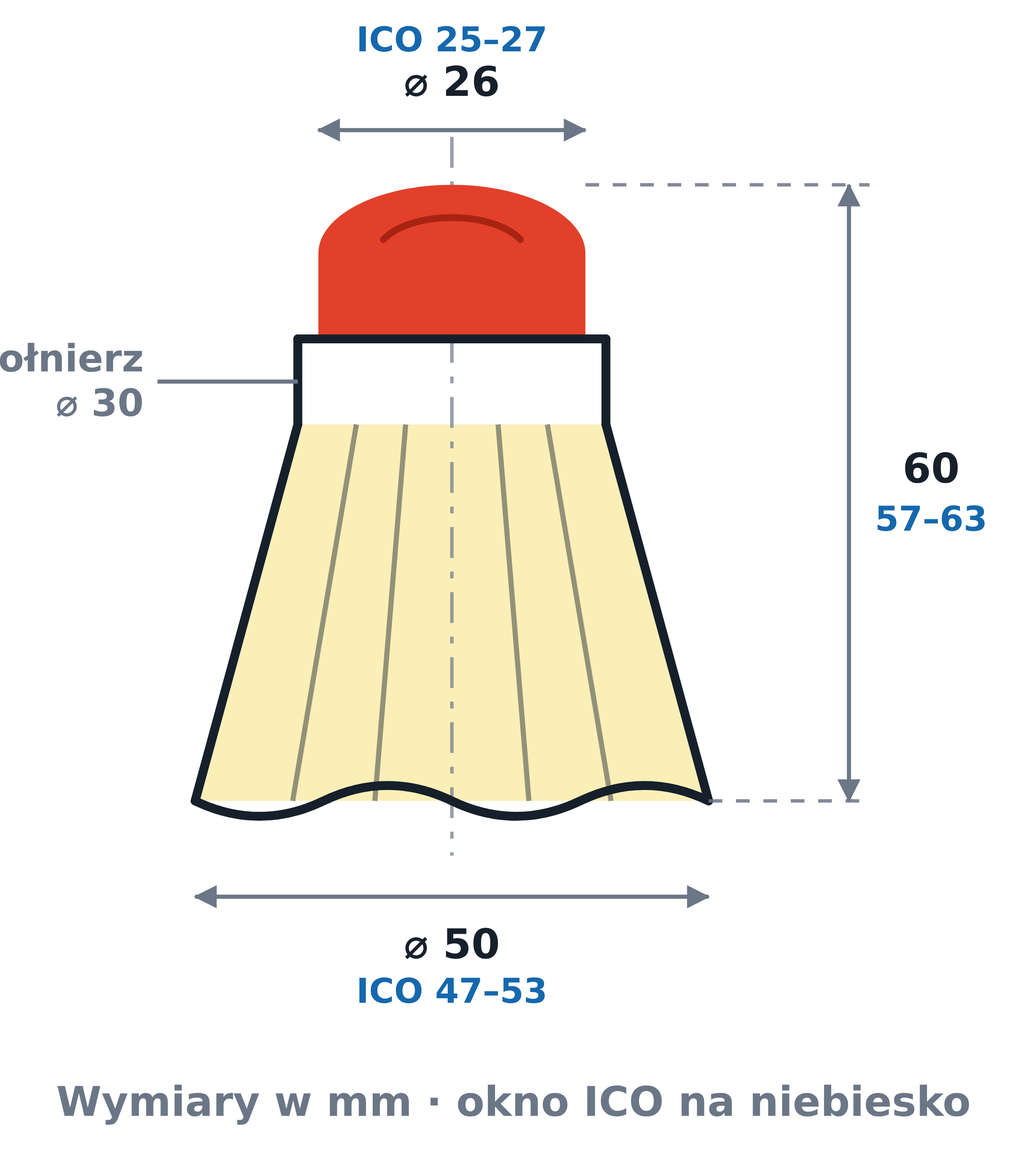
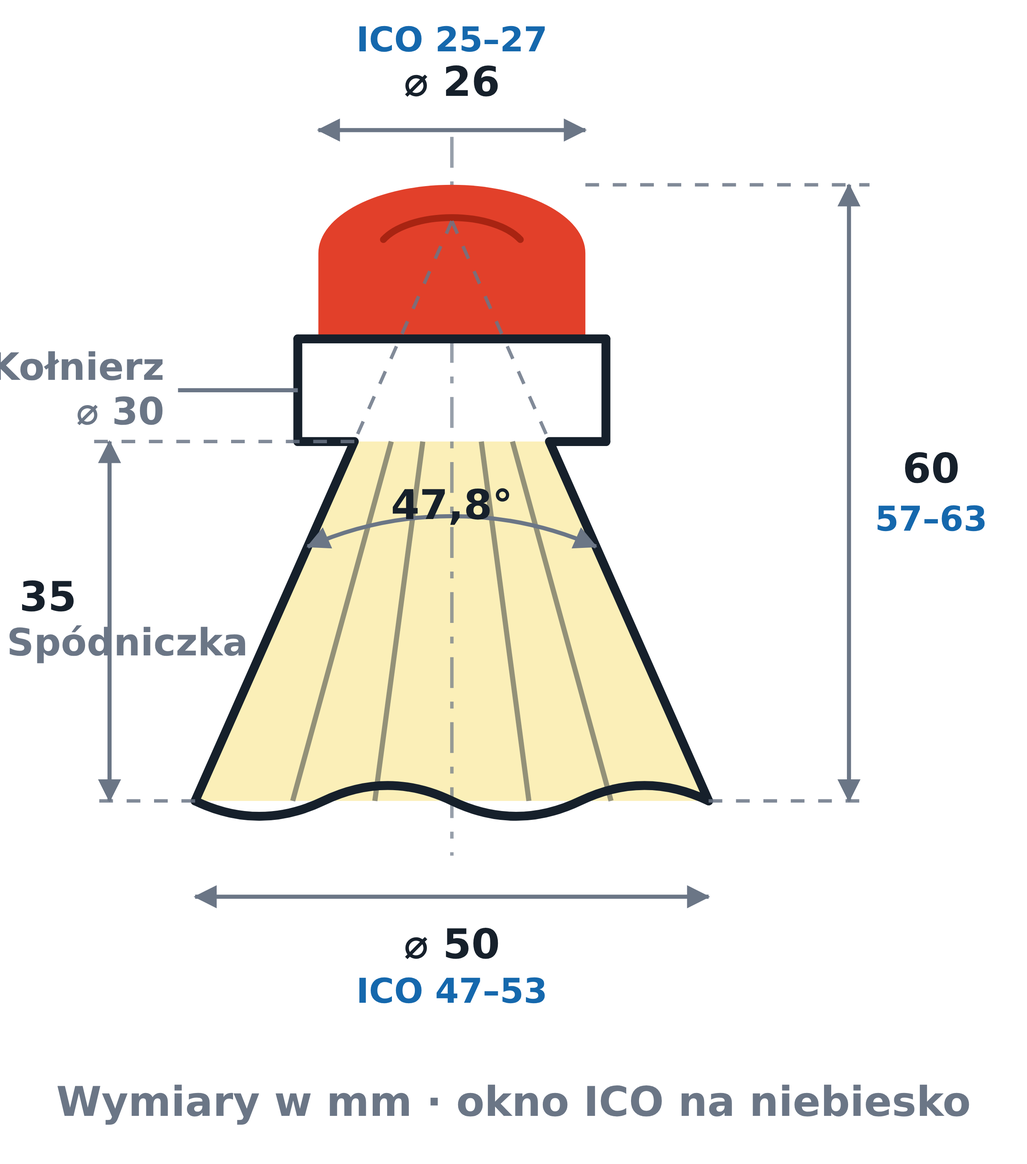
Konuswinkel 47,8 Grad bemassen — Bezug ist der Endring, nicht der Kragen
Beim ersten Anlauf hatte ich den Winkel weggelassen, weil er zu den
uebrigen Massen nicht zu passen schien. Der Grund war ein Messfehler von
mir: ich hatte die Kegelflanke am Kragen ⌀30 angesetzt und kam auf
31,9 Grad. Der Konus beginnt aber am ENDRING ⌀19 — dort klemmen die
Laengsstiele. Ueber die Korblaenge 35 mm ergibt ⌀19 auf ⌀50 exakt
2*atan(15,5/35) = 47,8 Grad. Die Vorlage ist also in sich stimmig.

Die Geometrie haelt den Wert jetzt EIN, statt ihn bloss anzuschreiben:
Kappe 15 mm (⌀26), Kragen 10 mm (⌀30), dann setzen die Stiele am Endring
an und der Konus laeuft ueber 35 mm auf ⌀50 — Summe 60 mm.

Bemasst wird ueber den rechnerischen Konus-SCHEITEL (Y_SCHEITEL): der
Bogen liegt auf beiden Flanken auf (nachgerechnet: Bogenendpunkt r=42,1
gleich Flankenradius r=42,1 auf derselben Hoehe), ist also nachrechenbar
statt dekorativ — so gehoert ein Kegelwinkel bemasst. Dazu neu die
Korblaenge 35 als Mass links.

Nebenbei: das "Korb"-Label stand in ICO-Blau, obwohl es kein ICO-Wert
ist — jetzt neutral grau. Und "47,8°" musste ausdruecklich in die
Uebersetzungskarte, weil der Zahlen-Filter es sonst als sprachneutral
durchgewunken haette; im Englischen steht dort ein Punkt (47.8°).

Katalog-Kopfzahlen in images/grafik-prompts.md mitgezogen: sie standen
noch auf 61 Grafiken und "Test bei 55/59", beides laenger veraltet.

CACHE-Bump v54 auf v55. 451 Pruefungen gruen, i18n-check, sitemap,
validate.py. An der laufenden App: Beschriftung kippt in allen vier
[…]

Changed region(s): [[0.0, 0.2791, 0.6875, 0.6823]]

diff --git a/sw.js b/sw.js
@@ -20,7 +20,7 @@
 // Kern-Dateien den CACHE-Namen erhöhen — dann lädt der neue SW die Hülle frisch
 // und räumt die alten Caches weg.
 
-const CACHE = 'crossminton-v54';
+const CACHE = 'crossminton-v55';
 
 // App-Hülle: alles, was für den ersten Start ohne Netz nötig ist. Die
 // Baustein-Grafiken (images/G-XXX.png) sind bewusst NICHT dabei — sie sind viele

diff --git a/CLAUDE.md b/CLAUDE.md
@@ -85,7 +85,7 @@ Farben, Typografie und Icon-Regeln stehen in `docs/ci.md` und sind als CSS-Varia
 - **App-Info (Reiter „Über"/„Mitmachen", Rechtstexte, Footer + Sprachanzeige) ist eine eigene Entität, kein Lerninhalt.** `data/app-info.json` (wie `regeln`/`trainingseinheiten` **nie im Baustein-Pool**: kein Fortschritt, keine Gamification) → `daten.appInfo = { meta, ueber, mitmachen, rechtliches, sprachen }`; gerendert von `js/ansichten/info.js` unter `#/ueber` und `#/mitmachen` (im „Mehr"/Hamburger-Menü, **nicht** in der Bottom-Bar) sowie `#/impressum`/`#/datenschutz` (`renderRechtstext`, erreichbar über das „Mehr"-Menü). **Navigation:** Die mobile Bottom-Bar ist **4-teilig/einzeilig** — Lernen · Trainieren · Profil · **Mehr** (`.fussnav-mehr`/`#mehr-knopf`, Label `nav_mehr`); „Mehr" öffnet dieselbe `#hauptmenue`-Lade wie der Kopf-Hamburger (ab Tablet, Bar dann verborgen), `oeffneMenue`/`setzeMenueTrigger` teilen den aria-Zustand beider Auslöser. Das Menü ordnet: die Ziel-Reihen **Lernen · Kompetenzpfad · Trainieren · Regeln · Ausrüstung · Merkliste · KO-Turnier** (`.menue-punkt`, Icons `fa-book-open`/`fa-table-tennis-paddle-ball`/`fa-scale-balanced`/`fa-toolbox`), dann `.menue-trenner`, dann die **Knopfleiste** (`.menue-knopfleiste`) mit drei kompakten Knöpfen **Profil · Suche · Darstellung** (`.menue-knopf`): Profil/Suche sind navigierende `<a>` (schließen das Menü), Darstellung ist ein `<button data-thema-zyklus>`, der **auto → hell → dunkel** durchschaltet — `aktualisiereThemaMenue()` beschriftet ihn bei jedem Rendern mit dem aktuellen Modus (`[data-thema-label]`), `boot()` verdrahtet den Zyklus über `wendeThemaAn`+`setzeEinstellung` und schließt das Menü bewusst **nicht** (Wirkung bleibt vergleichbar sichtbar; `fa-moon` (U+F186) ist im Font vorhanden, aber nicht in `css/schriften.css` deklariert — darum konstantes `fa-sun` + Modus-Label). Dann `.menue-trenner`, **Über · Mitmachen**, dann Impressum/Datenschutz als **kleine Links** (`.menue-mini` in `.menue-rechtliches`, ohne Icon) — der `[data-footer]`-Beschrifter ersetzt den `.nav-text`-Träger, sonst den ganzen Textknoten. `aktualisiereNavigation` setzt „Mehr" aktiv, sobald die Route im Menü liegt (regeln/turnier/ausruestung/suche/ueber/mitmachen/impressum/datenschutz). **Die Menü-Lade MUSS scrollen können** (`.menue-lade`: `overflow-y: auto` + `overscroll-behavior: contain` + `flex-shrink: 0` auf den Kindern): ihr Inhalt ist ~819 px hoch und damit höher als kurze Viewports (iPhone SE 667, kleines Android 640, Querformat noch deutlicher). Vorher stand dort `overflow-y: visible` bei `height: 100%` — der Überlauf war schlicht **unerreichbar**, es fehlten „Über", „Mitmachen" und die beiden Rechtstext-Links (im Querformat zehn Einträge). `flex-shrink: 0` ist nötig, weil die Flex-Spalte die Einträge sonst erst staucht, statt den Container scrollen zu lassen. Wer dem Menü einen Eintrag hinzufügt, prüft das auf 360×640 nach — der Fehler ist auf Desktop-Breiten unsichtbar. **Impressum/Datenschutz stehen zusätzlich am Fuß des „Über"-Reiters** (`rechtlicheLinksHtml()` in `js/ansichten/info.js`, `.info-rechtliches`, schlichtes `<p>` statt `<nav>` — zwei Links brauchen kein Landmark, und ein `aria-label` wäre ein unsichtbarer fünfter Übersetzungsschlüssel): sie lagen zuvor NUR im Menü, und dort genau an der Stelle, die abschnitt. **Ausrüstung ist ein eigenes Top-Level-Ziel** (`#/ausruestung`, `renderAusruestung` in `js/ansichten/pfad.js`): dieselbe fachliche `ausruestung`-Domäne wie im Themenpfad, aber als eigene Seite mit `heroKlein`-Kopf + Kurzeinstieg (`ausruestung_untertitel`/`ausruestung_intro`) über `themenpfad(daten,'ausruestung')`; Kontext `ausruestung` führt aus den Bausteinen dorthin zurück (`kontextZuListe`). Die Domäne bleibt zusätzlich Themen-Facette (zwei Perspektiven auf dieselben 7 Bausteine). **Wohin das Onboarding führt:** `schliesseAb()` in `js/ansichten/onboarding.js` navigiert am Ende **nicht** auf die Startseite (dort spiegelt nichts die eben gemachten Angaben), sondern zum Ergebnis: **mit benanntem Ziel → `#/pfad/individual`, ohne Ziel → `#/pfad/kompetenz`** (Spez. 7.1 nennt den Kompetenzpfad ausdrücklich als Default bei ausgelassenem Ziel). Das setzt **keine** Pfadbindung — Spez. 7.4 hält Zieläußerung und Pfadwahl entkoppelt, das Ziel bleibt überall gespeichert und wirksam; gezeigt wird nur, was daraus folgt. **Kein erzwungenes Onboarding:** Der Erstbesuch landet direkt auf der vollen Startseite (`renderHeim` mit allen Kacheln), nicht auf einer Abfrage — die frühere Willkommensseite (`willkommen.js`) ist entfernt, ihr Zweck (Wizard vs. freies Handbuch) deckt jetzt der Marken-Hero der Startseite mit CTA „Kapitel entdecken" + „Onboarding" ab. Der Wizard bleibt optional über diese CTA (`#/onboarding`) und das Profil erreichbar; `rendern()` kennt keinen Erstlauf-Sonderfall mehr. Nur die Onboarding-Ansicht selbst blendet die Bottom-Nav aus (`body.im-onboarding` nur bei `segmente[0]==='onboarding'`); überall sonst — auch beim Erstbesuch — bleibt die normale Navigation samt Kopf-Icons (Hamburger, Sprachanzeige) sichtbar. **[Eckige-Klammer-Platzhalter bleiben sichtbar** (Name/Anschrift/E-Mail) — `externerLink()` verlinkt sie nie (inaktiver Knopf + Monospace-Text); ein echter `http`-Absprung wird zum Link. `pruefeDaten` warnt nur leicht, nie über Platzhalter. Inhalt bleibt **inline** (`{de:…}` via `text()`), nur die UI-Labels (`nav_ueber`, `nav_mitmachen`, `footer_impressum`, `footer_datenschutz`) liegen in `labels/de.json`. **Kein App-Footer** (entfernt): Impressum/Datenschutz laufen ausschließlich über das „Mehr"-Menü; das GitHub-Logo (inline-SVG) sitzt jetzt im „Über"-Reiter unter Lizenz/Credits (`credits_lizenz.github`, gerendert in `info.js`). Die **Sprachwahl im Kopf** (`initSprachanzeige`/`setzeSprachanzeige`, rechts neben dem Hamburger) **schaltet funktional um** (`sprachen.funktion_aktiv: true`): der Kopf zeigt konstant eine **Weltkugel** (🌐), das Untermenü listet **de/en/fr/pl** (kein `ja`) als **`<button data-sprach-code>`** mit **Flagge + Eigenname** (Sprachname in der jeweiligen Heimatsprache: Deutsch/English/Français/Polski, Feld `eigenname`) und markiert die aktive mit **Häkchen (✓) + Hervorhebung**. Ein Klick ruft `setzeSprache(code)` (lädt die Labels der Sprache) + `setzeEinstellung('sprache', code)` und rendert global neu (`rendern()` → `beschrifteRahmen` beschriftet Navigation/Menü/Kopf mit) — **parallel zum Profil-Selektor**, der als zweiter Weg bleibt. fr/pl fallen über die i18n-Kette weiter auf de zurück. **Der Menüpunkt „Lernen" verlinkt auf den Themenpfad** (`#/pfad/themen`, Bottom-Bar wie Drawer) statt auf die Startseite; die Startseite (`renderHeim`) bleibt über das Marken-Logo (`.marke`, `#/`) erreichbar. **`credits_lizenz` ist strukturiert (nicht mehr `eintraege[]`):** `lizenzen[]` ({`rolle`,`name`,`ziel`} — Lizenzname ausgeschrieben + extern verlinkt) + `credits.personen[]` ({`name`,`ziel`} — Namen extern verlinkt, z. B. Damian Paderta→paderta.com, nozilla→nozilla.de) + `github`; gerendert vom eigenen `creditsLizenzHtml()` in `info.js` (Personennamen sind Eigennamen ohne `{de,en,fr}`, die `rolle`/`name`/`praefix` tragen Zwillinge). Technische Gesamtübersicht: `ENTWICKLUNG.md`.
 - **Grafiken sind durchnummeriert (`G-XXX`) und liegen als theme-fähiges Inline-SVG in `images/` (je mit PNG-Render-Fallback).** Das optionale Baustein-Feld `grafik` ist eine **Liste** von `G-XXX`-Nummern (Sequenzen tragen mehrere, z. B. `aufschlag` → `["G-005","G-006"]`); `grafikenHtml` in `js/ansichten/baustein.js` rendert über `grafikFigurHtml` ein `<img src="images/G-XXX.png">`, das nach dem Rendern gegen das Inline-SVG getauscht wird (CSS `.grafik-bild`). Die sichtbare Beschriftung steht als Label unter `grafiken` in `labels/de.json`, **nach `G-XXX` gekeyed** (nicht mehr `*_leitgrafik`/`*_seq_n` — die alten Namen wurden koordiniert umnummeriert, auch in `bausteine.beginner-technik.json`). Nummernkreis nach Reitern: Technik `G-001–022`, Taktik `G-023–031`, Athletik `G-032–036`, Doppel `G-037–053`, Outdoor `G-054–059`, Regeln `G-060–061`, Spielformen `G-062–063`, Ausrüstung `G-064–067`. **59 Bausteine tragen eine Grafik (65 Referenzen); `G-060`/`G-061` hängen an keinem Baustein** — es sind die zwei Referenzgrafiken im Regeln-Reiter (`renderRegeln`, eingeklappte `<details>`-Sektion `regeln_grafiken`). Deltas tragen nie eine eigene Grafik. Der vollständige Katalog **und das Abdeckungs-Audit** (bewusst bildlos: Mentales, abstrakte Taktik, konditionelle Athletik, Trainer, Spielmodi) stehen in `images/grafik-prompts.md`. **Nie umbenennen.** Der Test `[10] Grafiksystem` prüft Schema, Datei-Existenz, Sequenzen und die G-060/061-Ausnahme.
 - **ALLE 67 Grafiken sind hand-gezeichnetes, theme-fähiges Inline-SVG — es gibt keine Raster-Illustrationen mehr.** Ursprünglich war eine Trennlinie vorgesehen (Diagramme als SVG, Körper/Griff/Szene als KI-PNG); umgesetzt ist **durchgängig SVG**, auch die Figur-/Griff-/Szene-Motive als **abstrakte Piktogramme** (Rundkappen-Strichfiguren `stroke-width ~14`, Kopf gefüllt, Schläger/Pfeile in `--primaer`, kurze `.st`-Caption; Nahaufnahmen wie Griff/Handgelenk/Schnitt als schematische Elemente). Nutzt die CI-Tokens `var(--tinte)`/`var(--primaer)`/`var(--tinte-3)` mit Hell-Fallback, kippt daher **mit dem `data-theme`-Umschalter** — kein `@media` nötig; grotesk-frei (keine KI-Anatomie), buildfrei, in Hell/Dunkel automatisch lesbar. **Beide Dateien existieren stets** (`G-XXX.svg` UND `G-XXX.png`): `SVG_GRAFIKEN` (Set in `js/oberflaeche.js`) listet **alle 67**; `grafikFigurHtml(id)` rendert das PNG als sofort sichtbaren Fallback und hängt `data-grafik-svg` an; `verbessereGrafiken(wurzel)` (nach dem Rendern in `renderBaustein` **und** `renderRegeln`) tauscht das PNG per `fetch` gegen das Inline-SVG (idempotent, gecacht; übernimmt den übersetzten `alt` als `aria-label`; scheitert der Abruf offline, bleibt das PNG). Die SVGs sind **nicht in der SW-SHELL** (lazy, SWR-gecacht). PNG-Render: `var()`-Fallbacks = Hell-Werte (Playwright, transparent, 2×, `omitBackground`). Werkzeuge in `scratchpad/`: `render-svg.mjs G-XXX` (auch `G-XXX.en`/`G-XXX.fr`/`G-XXX.pl`) rendert PNGs, `montage.mjs [--dark]` kachelt zur Sichtprüfung, `gen-en.mjs`/`gen-fr.mjs`/`gen-pl.mjs` erzeugen die en-/fr-/pl-Zwillinge aus einer Übersetzungsmap. **Caption ≤ ~46 Zeichen** (sonst Überlauf der 300px-viewBox). Neue Grafik: SVG mit Token-`var()` + kurzer `.st`-Caption schreiben, zu `.png` rendern, Nummer in `SVG_GRAFIKEN`, en-/fr-/pl-Zwilling + `.en.png`/`.fr.png`/`.pl.png` ergänzen. **Sprachvarianten (Ring 16, `en`, `fr` und `pl` vollständig für alle 67):** jede Grafik trägt Caption + `aria-label`, darum liegt zu jeder ein `G-XXX.<sprache>.svg`/`.png`-Zwilling (`en`, `fr`, `pl`; gelistet in `GRAFIK_SPRACHEN`; ~194 Textstrings je Sprache — 157 sichtbare `<text>` + 67 aria-label); `grafikFigurHtml` wählt bei aktiver Grafik-Sprache die `.<sprache>`-Dateien, sonst die deutsche Basis (ohne Variante fällt es sauber auf de zurück). Beachte: `verbessereGrafiken` überschreibt zur Laufzeit die SVG-`aria-label` mit dem übersetzten `alt` aus `label('grafik', id)` — die in-SVG-`aria-label` ist also nur für die Rohdatei/EN-Parität, nicht laufzeitrelevant; sichtbar sind die `<text>`. Der Zwilling ändert **nur** `<text>`+`aria-label` (Geometrie/Tokens byte-identisch); bei englischer/französischer Überlänge minimal die Position/Größe im Sprach-SVG nachziehen (nie das de-SVG) — `fr` nutzt dafür in `gen-fr.mjs` einen `TWEAKS`-Block (font-size ↓ bei G-040 `.st` und G-061 `.cap`) plus ein paar gekürzte Captions (G-001, G-039 „sa moitié", G-061 „IN — dedans"); genau diese zwei fr-SVGs weichen daher über `<text>`/`aria` hinaus vom de ab (erlaubte Ausnahme). **`pl` brauchte keinen einzigen TWEAK** — die polnischen Captions bleiben alle unter der ~46-Zeichen-Grenze (nur „Kunstrasen" → „Szt. trawa" gekürzt), also weicht kein pl-SVG über `<text>`/`aria` hinaus vom de ab. Der Test `SVG_GRAFIKEN … .svg UND .png` und `GRAFIK_SPRACHEN … .svg UND .png` prüfen die Paarigkeit (jetzt en + fr + pl). Die en-/fr-/pl-Dateien sind **nicht in der SHELL** (lazy), aber bei Änderung an `grafikFigurHtml`/`oberflaeche.js` den `CACHE` bumpen (hier v29 → v30 wegen `GRAFIK_SPRACHEN` += `pl`).
-- **Die Ausrüstungs-Domäne ist über die Speeder-Konstruktionszeichnung bebildert (`G-064`–`G-067`) — und sie ist die eine erlaubte Ausnahme von der Ampel-Farbregel.** Vorher war die gesamte Domäne über alle sieben Bausteine bildlos. Vorlage war eine vierteilige Konstruktionszeichnung (A perspektivisch, B Profil, C Längsschnitt, D Draufsicht); sie ist **bewusst als VIER eigenständige Grafiken** umgesetzt und nicht als eine 2×2-Tafel: die Vorlage ordnet zweispaltig an, was auf dem Telefon unlesbar wird, während vier Figuren von der App ohnehin einspaltig gestapelt werden (`.grafik-platzhalter` ist `width:100%`) — responsiv ohne CSS-Ausnahme, und jede Tafel trägt eigene Beschriftung und Sprachvarianten. Verteilt auf die zwei Orte, die inhaltlich gemeint sind: `deine_ausruestung` → `G-064` (unbemaßte Übersicht), `der_speeder` → `G-065`/`G-066`/`G-067`. **Farben sind die Originalfarben des Typs MATCH** (gelber Korb, rote Schlagkappe) über **eigene Tokens** `--speeder-korb`/`--speeder-kappe`/`--speeder-kappe-tief` in `css/app.css` (hell + beide Dunkel-Blöcke), ausdrücklich **nicht** über `--signal-gelb`/`--signal-rot`: die Ampel bedeutet hier einen *Zustand* (offen/Hinweis/erledigt), am Speeder ist die Farbe eine *Sacheigenschaft* — beides auf denselben Token zu legen hieße die Ampel zu verwässern. Wer weitere Produktfarben braucht, legt ebenso eigene Tokens an, statt die Signalfarben zu entleihen. **Maßstab 3 Einheiten je mm**, Schlagkappe oben wie in Tafel B. **Der Konuswinkel ist bewusst NICHT bemaßt:** mit den 47,8° der Vorlage wäre der Korb erst nach 22,6 mm auf ⌀50 und die Silhouette sähe nicht mehr nach Speeder aus (die gezeichnete Form trägt rund 31°) — die Vorlage nennt ihre Werte selbst als Näherung („am Realobjekt zu vermessen"), darum lieber die Zahl weglassen als sie an eine Geometrie schreiben, die sie nicht einhält. `G-066` ist als einzige **360 breit** (die linke Beschriftungsspalte passt bei 300 nicht) — das Repo kennt Nicht-300-Breiten bereits. Erzeugt von `scratchpad/gen-speeder.mjs` (Geometrie gerechnet, nicht geschätzt) + `gen-speeder-sprachen.mjs` (en/fr/pl; prüft auf VORHANDENSEIN statt auf Veränderung, weil „22,5°" in fr/pl gleich lautet und ein Veränderungs-Test dort falschen Alarm schlüge). Terminologie aus dem Bestand statt erfunden: *head/tête/główka* wie „der Kopf entscheidet" in `regeln.json`, *skirt/jupe/spódniczka* wie im `der_speeder`-Text.
+- **Die Ausrüstungs-Domäne ist über die Speeder-Konstruktionszeichnung bebildert (`G-064`–`G-067`) — und sie ist die eine erlaubte Ausnahme von der Ampel-Farbregel.** Vorher war die gesamte Domäne über alle sieben Bausteine bildlos. Vorlage war eine vierteilige Konstruktionszeichnung (A perspektivisch, B Profil, C Längsschnitt, D Draufsicht); sie ist **bewusst als VIER eigenständige Grafiken** umgesetzt und nicht als eine 2×2-Tafel: die Vorlage ordnet zweispaltig an, was auf dem Telefon unlesbar wird, während vier Figuren von der App ohnehin einspaltig gestapelt werden (`.grafik-platzhalter` ist `width:100%`) — responsiv ohne CSS-Ausnahme, und jede Tafel trägt eigene Beschriftung und Sprachvarianten. Verteilt auf die zwei Orte, die inhaltlich gemeint sind: `deine_ausruestung` → `G-064` (unbemaßte Übersicht), `der_speeder` → `G-065`/`G-066`/`G-067`. **Farben sind die Originalfarben des Typs MATCH** (gelber Korb, rote Schlagkappe) über **eigene Tokens** `--speeder-korb`/`--speeder-kappe`/`--speeder-kappe-tief` in `css/app.css` (hell + beide Dunkel-Blöcke), ausdrücklich **nicht** über `--signal-gelb`/`--signal-rot`: die Ampel bedeutet hier einen *Zustand* (offen/Hinweis/erledigt), am Speeder ist die Farbe eine *Sacheigenschaft* — beides auf denselben Token zu legen hieße die Ampel zu verwässern. Wer weitere Produktfarben braucht, legt ebenso eigene Tokens an, statt die Signalfarben zu entleihen. **Maßstab 3 Einheiten je mm**, Schlagkappe oben wie in Tafel B. **Der Konuswinkel 47,8° bezieht sich auf den ENDRING ⌀19, nicht auf den Kragen ⌀30** — über die Korblänge 35 mm ergibt ⌀19 → ⌀50 exakt `2·atan(15,5/35) = 47,8°`, vom Kragen aus wären es nur 31,9°. Damit ist die Vorlage in sich stimmig; ein erster Anlauf maß an der falschen Kante, hielt sie für widersprüchlich und ließ den Winkel darum weg. Die Geometrie **hält den Wert jetzt ein, statt ihn bloß anzuschreiben**: Kappe 15 mm (⌀26), Kragen 10 mm (⌀30), dann setzen die Längsstiele am Endring an und der Konus läuft über 35 mm auf ⌀50. Bemaßt wird über den rechnerischen **Konus-Scheitel** (`Y_SCHEITEL`) — der Bogen liegt auf beiden Flanken auf, ist also nachrechenbar statt dekorativ, und so gehört ein Kegelwinkel bemaßt. `G-066` ist als einzige **360 breit** (die linke Beschriftungsspalte passt bei 300 nicht) — das Repo kennt Nicht-300-Breiten bereits. Erzeugt von `scratchpad/gen-speeder.mjs` (Geometrie gerechnet, nicht geschätzt) + `gen-speeder-sprachen.mjs` (en/fr/pl; prüft auf VORHANDENSEIN statt auf Veränderung, weil „22,5°" in fr/pl gleich lautet und ein Veränderungs-Test dort falschen Alarm schlüge). Terminologie aus dem Bestand statt erfunden: *head/tête/główka* wie „der Kopf entscheidet" in `regeln.json`, *skirt/jupe/spódniczka* wie im `der_speeder`-Text.
 - **Doku-Reiter: `README.md` (nur Konzept/Angebot) + `docs/TECHNICAL.md` (technische Kurzfassung).** README trägt das Speeder-Logo (`images/logo-speeder.svg`), Badges und die **Lizenz-Trennung Code (MIT) / Inhalt (CC BY-SA 4.0)** mit sichtbaren `[Jahr]`/`[Rechteinhaber]`-Platzhaltern (bewusst nicht gefüllt). Beide sind reine GitHub-Dokumente (README verlinkt TECHNICAL); sie sind **nicht** in der App-Navigation verlinkt (die früher testweise im „Mehr"-Menü eingebundenen `[data-doc]`-Links wurden auf Wunsch wieder entfernt) — **kein In-App-Markdown-Renderer** (buildfrei bleibt Pflicht). `ENTWICKLUNG.md` bleibt die tiefe Entwickler-Referenz; verbindlich ist weiter `docs/uebergabe-spezifikation.md`.
 - **Feedback-Modus lädt den Kommentator on-demand nach — zwei Auslöser, eine Aktivierung.** `js/feedback.js` bindet die **lokal eingecheckte** Fremdbibliothek `vendor/kommentator/{kommentare.js,kommentare.css}` (daimpad/kommentator, MIT, klassisches `window.Kommentare`-Skript — **kein ES-Modul, kein Build**, passt zur „lokal eingecheckte statische Datei"-Regel) **nur** dann ein, wenn `?feedback` in `location.search` steht (`initFeedbackWennGewuenscht()` beiläufig am Ende von `boot()`, teilbarer Link `.../crossminton-handbook/?feedback`) **oder** der Knopf unter **„Mitmachen"** geklickt wird (`aktiviereFeedback()`, ohne Reload; `renderMitmachen` in `js/ansichten/info.js` zeigt Karte mit Erklärtext + Knopf, nach Aktivierung `feedbackAktiv()`→Hinweis; Inhalt in `app-info.json` unter `mitmachen.feedback`). `aktiviereFeedback()` ist idempotent; normale Besucher laden **nichts** (kein Extra-UI/keine Extra-Bytes). Init auf **`#ansicht`** (Lern-Inhalte; Kopf/Nav außen vor), `toolbarMode`+`notes: 'floating'` (baut das Layout **nicht** um; Tool-UI hängt an `document.body`, übersteht das #ansicht-Neurendern der SPA — Kommentare sammeln sich sitzungsweit, Export bleibt vollständig), `themeToggle: false`. **Thema-Kopplung ohne Konflikt:** der Kommentator scoped sein Thema über **eigene Klassen** (`kommentare-dark`/`-light`), **nie** über `<html data-theme>`; `feedback.js` mappt App→Kommentator (hell→light, dunkel→dark, auto→auto) und führt es über das **`app:thema`-Event** (aus `wendeThemaAn`) nach. **CI-Angleichung:** `css/feedback.css` (nur im Feedback-Modus geladen, **nach** der Vendor-CSS) überschreibt die `--k-*`-Variablen des Kommentators auf die App-Tokens (`--primaer`, `--tinte`, `--linie`, Ampel-Gelb für Textmarker, Rubik, Radien) — mit den gleichen Theme-Selektoren wie der Kommentator (inkl. eigener `@media`-dark-Regel für „auto"), damit die App-Tokens gewinnen; die vendored Datei bleibt unangetastet. Rückmeldungen exportiert der Kommentator als JSON oder per E-Mail (`contact@nozilla.de`) — **kein localStorage** (reiner Sitzungsspeicher). **Der vendorte Stand steht in `vendor/kommentator/HERKUNFT.md`** (derzeit `6c6c302`): die Dateien tragen keine Versionsnummer, ohne diese Notiz begänne jede Aktualisierung mit einem Vergleich gegen alle Upstream-Commits. Beim Nachziehen zwei Dinge prüfen, weil das Quell-Repo auch ein WordPress-Plugin enthält, das uns nichts angeht: (a) **neue Vorgaben, die nach außen wirken** — mit `6c6c302` kam ein `webhook` dazu, über den Kommentare an eine zentrale Sammelstelle gehen können; er ist **opt-in** (`if (options.webhook && …)`), `js/feedback.js` übergibt keinen, und der zugehörige „Alle senden"-Knopf erscheint ohne ihn gar nicht — es verlässt also nichts den Browser und die Datenschutzerklärung bleibt richtig; (b) **neues CSS, das `--k-*`-Variablen nutzt, die `css/feedback.css` nicht überschreibt** — die fielen sonst auf die Vendor-Werte zurück und brächen aus der App-CI aus.
 - **Reichweitenmessung läuft über GoatCounter, lokal vendort statt vom Fremd-CDN geladen.** `vendor/goatcounter/count.js` (ISC-lizenziert, unverändert von github.com/arp242/goatcounter übernommen, `vendor/goatcounter/LICENSE`) statt des offiziellen `//gc.zgo.at/count.js` — passend zur „Bibliotheken als lokal eingecheckte statische Datei"-Regel, wie `vendor/kommentator/`. **Anders als der Kommentator lädt es unconditioniert auf jeder Seite**, nicht nur bei Aktivierung: statischer `<script data-goatcounter="https://crossminton-handbook.goatcounter.com/count" data-goatcounter-settings='{"no_onload":true}' async src="vendor/goatcounter/count.js">` in `index.html`. `no_onload`, weil `count.js` sonst nur den initialen Dokument-Load automatisch zählt; für die SPA übernimmt **`js/analytics.js`**s `zaehleAufruf(pfad)` das Zählen, aufgerufen aus `js/app.js`s `rendern()` **nur bei echtem Routenwechsel** (im selben `if (roh !== letzteRoute)`-Block wie `window.scrollTo`/Fokus — kein Doppel- oder Fehlzählen bei bloßem Neu-Zeichnen derselben Route, z. B. nach Sprachwechsel oder Merken-Toggle). Übertragen wird nur `path: window.location.pathname` **ohne Query** (interne Query-Parameter wie `?kontext=` sind Navigations-Rückweg, keine eigene Seite und sollen die Statistik nicht zersplittern); `count.js` selbst ergänzt Referrer/Titel/Bildschirmbreite/Bot-Erkennung serverseitig. Keine Cookies, keine dauerhafte Kennung. **Do-Not-Track wird zusätzlich respektiert**, obwohl `count.js` das selbst nicht prüft — `zaehleAufruf()` bricht bei gesetztem DNT-Header vorzeitig ab. Lädt das Skript (noch) nicht (Boot-Phase, Adblocker, Netzwerkfehler, fehlendes Tag), ist `zaehleAufruf()` unschädlich: eine Warteschlange sammelt bis zum `load`-Ereignis des Script-Tags und verarbeitet dann nach; fehlt das Tag ganz, gilt sofort „bereit" und `sendeZaehlung()` tut beim fehlenden `window.goatcounter` einfach nichts — kein Fehlerfall. **Lokal lässt sich die Zählung nicht direkt beobachten:** `count.js` filtert `localhost`/`127.*`/`192.168.*`/`file:` selbst heraus (eigene `goatcounter.filter()`, Zeile ~116) und schickt dort gar keinen Beacon — wer die Verdrahtung prüfen will, setzt im Testlauf `window.goatcounter = { allow_local: true }` **vor** dem Laden (`addInitScript`; `count.js` beginnt mit `window.goatcounter = window.goatcounter || {}`, ein vorbelegtes Objekt überlebt also) und fängt die ausgehende Bild-Anfrage an `**goatcounter.com/**` ab. Der Endpunkt wird dabei **bei jedem Senden neu aus dem Attribut gelesen** (`get_endpoint()`), nicht beim Laden eingefroren — der Site-Code steckt also ausschließlich im `data-goatcounter`-Attribut in `index.html`. **Datenschutzerklärung entsprechend korrigiert, nicht nur ergänzt** (`data/app-info.json`, `rechtliches.datenschutz`): der bisherige Satz „…kein Tracking…" wäre mit dem neuen Skript schlicht falsch gewesen und wurde durch eine Beschreibung von GoatCounter ersetzt (Rechtsgrundlage Art. 6 Abs. 1 lit. f DSGVO, berechtigtes Interesse, analog zur bestehenden netcup-Logging-Passage; IP-Handling als „nach Angaben des Anbieters" attribuiert, da `goatcounter.com` selbst aus der Entwicklungsumgebung nicht erreichbar war) — in allen vier Sprachen (de/en/fr/pl) nachgezogen. **SW:** `vendor/goatcounter/count.js` + `js/analytics.js` neu in `SHELL` (anders als der Kommentator gehört das Skript in die Hülle, weil es unconditioniert auf jeder Seite lädt, nicht lazy/SWR) **+ CACHE-Bump v35→v36**.

diff --git a/images/grafik-prompts.md b/images/grafik-prompts.md
@@ -8,11 +8,11 @@ Zentrale, durchnummerierte Sammlung aller Bild-Prompts der App. Jede Nummer `G-X
 
 **Integration:** je Baustein ein optionales Feld `grafik: ["G-XXX"]` (Liste, mehrere Bilder je Baustein möglich); der Loader zieht darüber die Bilddatei und zeigt sie in der Baustein-Ansicht. Bausteine ohne Eintrag zeigen kein Bild (siehe Abdeckung).
 
-**Alle 61 Grafiken sind hand-gezeichnetes, theme-fähiges Inline-SVG.** Ursprünglich war eine Trennlinie vorgesehen (Raum/Geometrie als SVG vs. Körper/Textur als KI-PNG); umgesetzt wurde stattdessen **durchgängig SVG** — auch die Figur-/Griff-/Szene-Motive als **abstrakte Piktogramme** (klare Rundkappen-Strichfiguren, CI-Tokens, kurze Caption). Das hält den Stil einheitlich, buildfrei und grotesk-frei (keine unheimliche KI-Anatomie) und ist in Hell/Dunkel automatisch lesbar.
+**Alle 67 Grafiken sind hand-gezeichnetes, theme-fähiges Inline-SVG.** Ursprünglich war eine Trennlinie vorgesehen (Raum/Geometrie als SVG vs. Körper/Textur als KI-PNG); umgesetzt wurde stattdessen **durchgängig SVG** — auch die Figur-/Griff-/Szene-Motive als **abstrakte Piktogramme** (klare Rundkappen-Strichfiguren, CI-Tokens, kurze Caption). Das hält den Stil einheitlich, buildfrei und grotesk-frei (keine unheimliche KI-Anatomie) und ist in Hell/Dunkel automatisch lesbar.
 
-- Jede Nummer liegt als **`G-XXX.svg` UND `G-XXX.png`** (Render-Fallback) vor; alle 61 stehen im `SVG_GRAFIKEN`-Set (`js/oberflaeche.js`). Nutzen die CI-Tokens (`var(--tinte)`/`var(--primaer)`/`var(--tinte-3)` mit Hell-Fallback), kippen mit dem `data-theme`-Umschalter, sind gestochen scharf und winzig.
-- **Texttragend → Sprach-Zwilling:** weil jedes SVG eine kurze deutsche Caption + `aria-label` trägt, liegt zu jeder Nummer ein **`G-XXX.en.svg`/`.en.png`** (nur `<text>`+`aria-label` englisch, Geometrie byte-identisch), geladen über `GRAFIK_SPRACHEN`. fr/pl fallen sauber auf de zurück.
-- **Rezept (buildfrei):** SVG mit Token-`var()` schreiben → `scratchpad/render-svg.mjs G-XXX` rendert das `.png` (2×, transparent, `omitBackground`, Hell-Fallback-Werte) → `scratchpad/gen-en.mjs` erzeugt den en-Zwilling aus der Übersetzungsmap → en-`.png` rendern. `scratchpad/montage.mjs [--dark]` kachelt mehrere zur Sichtprüfung.
+- Jede Nummer liegt als **`G-XXX.svg` UND `G-XXX.png`** (Render-Fallback) vor; alle 67 stehen im `SVG_GRAFIKEN`-Set (`js/oberflaeche.js`). Nutzen die CI-Tokens (`var(--tinte)`/`var(--primaer)`/`var(--tinte-3)` mit Hell-Fallback), kippen mit dem `data-theme`-Umschalter, sind gestochen scharf und winzig.
+- **Texttragend → Sprach-Zwilling:** weil jedes SVG eine kurze deutsche Caption + `aria-label` trägt, liegt zu jeder Nummer ein **`G-XXX.<sprache>.svg`/`.png`** je en/fr/pl (nur `<text>`+`aria-label` übersetzt, Geometrie byte-identisch), geladen über `GRAFIK_SPRACHEN`. Alle drei Sprachen sind vollständig; ohne Variante fiele es sauber auf de zurück.
+- **Rezept (buildfrei):** SVG mit Token-`var()` schreiben → `scratchpad/render-svg.mjs G-XXX` rendert das `.png` (2×, transparent, `omitBackground`, Hell-Fallback-Werte) → `scratchpad/gen-en.mjs` / `gen-fr.mjs` / `gen-pl.mjs` erzeugen die Zwillinge aus der Übersetzungsmap → deren `.png` rendern. `scratchpad/montage.mjs [--dark]` kachelt mehrere zur Sichtprüfung.
 - Die **AI-Prompts unten bleiben als Motiv-/Redaktionsreferenz** stehen (welches Motiv jede Nummer zeigt) — sie sind nicht mehr die Produktionsquelle.
 
 ## Abdeckung (Audit)
@@ -25,7 +25,7 @@ Bewusst **ohne Leitgrafik** bleiben:
 - **Abstrakte Taktik** — `fehler_vermeiden`, `umschalten`, `gegner_lesen_muster`, `doppel_grundlagen`, `engen_satz_fuehren`, `der_matchplan`, `dem_gegner_aufzwingen`, `matchverlauf_steuern`, `entscheidender_punkt`.
 - **Konditionelle Athletik** — `warum_athletik_dein_spiel_traegt`, `richtig_aufwaermen`, `durchhalten`, `erholen`, `gezielt_trainieren`, `rumpfstabilitaet`, `intervallausdauer`, `belastung_steuern_regenerieren`, `form_ueber_die_saison`, `antizipative_schnelligkeit`, `langfristig_belastbar` — Belastungs-/Regenerationsthemen ohne sinnvolles Einzelbild (Gesundheitsrahmen).
 - **Trainer-Trainingsgestaltung** — Meta-Ebene, kein Lernbild.
-- **Spielmodi** (`spielarten_ueberblick`, `snowminton`, `beachminton`, `blackminton`) — vorerst bildlos; die Umgebungs-Varianten sind gute Kandidaten für spätere Atmosphäre-Motive (Schnee/Sand/Nacht, Nummernkreis ab G-062). Der Grafik-Test bleibt bis dahin bei 55/59.
+- **Spielmodi** (`spielarten_ueberblick`, `snowminton`, `beachminton`, `blackminton`) — vorerst bildlos; die Umgebungs-Varianten sind gute Kandidaten für spätere Atmosphäre-Motive (Schnee/Sand/Nacht, Nummernkreis ab G-062). Der Grafik-Test zählt aktuell 59 Bausteine mit Grafik und 65 Referenzen.
 
 Für Metapher-/Schema-Motive der abstrakten Bausteine ist ein eigener, späterer Durchgang vorgesehen.
 
@@ -319,12 +319,13 @@ Sprachvarianten.
 **Maßstab 3 Einheiten je mm**, Schlagkappe oben wie in Tafel B der Vorlage:
 Gesamthöhe 60 mm = 180 u, Korb ⌀50 = r75, Kragen ⌀30 = r45, Schlagkappe ⌀26 = r39.
 
-**Nicht bemaßt ist der Konuswinkel.** Mit den 47,8° der Vorlage wäre der Korb erst nach
-22,6 mm auf ⌀50 und die Silhouette sähe nicht mehr nach Speeder aus; die gezeichnete
-natürliche Form trägt rund 31°. Die Vorlage nennt ihre Werte selbst ausdrücklich als
-Näherung („am Realobjekt zu vermessen"), darum lieber die Zahl weglassen als sie an eine
-Geometrie schreiben, die sie nicht einhält. Bemaßt ist, was zusammenpasst **und**
-ICO-relevant ist: die drei Durchmesser, die Gesamthöhe, der Endring, die Teilung.
+**Der Konuswinkel 47,8° bezieht sich auf den Endring ⌀19, nicht auf den Kragen ⌀30.**
+Über die Korblänge 35 mm ergibt ⌀19 → ⌀50 exakt `2·atan(15,5/35) = 47,8°`; vom Kragen aus
+wären es nur 31,9°. Damit ist die Vorlage in sich stimmig. Die Geometrie hält den Wert
+ein, statt ihn bloß anzuschreiben: Kappe 15 mm (⌀26), Kragen 10 mm (⌀30), dann setzen die
+Längsstiele am Endring ⌀19 an, und der Konus läuft über 35 mm auf ⌀50. Bemaßt wird über
+den rechnerischen **Konus-Scheitel** — der Bogen liegt auf beiden Flanken auf, ist also
+nachrechenbar statt dekorativ.
 
 **Farben sind die Originalfarben des Typs MATCH** (gelber Korb, rote Schlagkappe) und
 laufen über **eigene Tokens** `--speeder-korb` / `--speeder-kappe` / `--speeder-kappe-tief`
@@ -340,7 +341,8 @@ Caption: „Schlagkappe, Kragen und Korb".
 
 **G-065** · `images/G-065.svg` · `der_speeder` · Profil mit den ICO-Maßen — die
 eigentliche Lehr-Aussage: Gesamthöhe 60 (57–63), Korb ⌀50 (47–53), Schlagkappe ⌀26
-(25–27), Kragen ⌀30. Das Toleranzfenster steht in `--primaer-tief` unter dem Nennmaß.
+(25–27), Kragen ⌀30, Korblänge 35 und der Konuswinkel 47,8° über den Scheitel. Das
+Toleranzfenster steht in `--primaer-tief` unter dem Nennmaß.
 Caption: „Maße in mm · blau das ICO-Fenster".
 
 **G-066** · `images/G-066.svg` · `der_speeder` · Längsschnitt, als einziger **360 breit**
